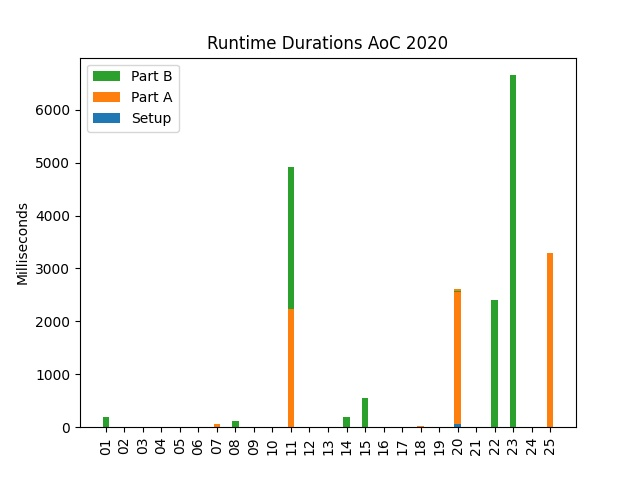
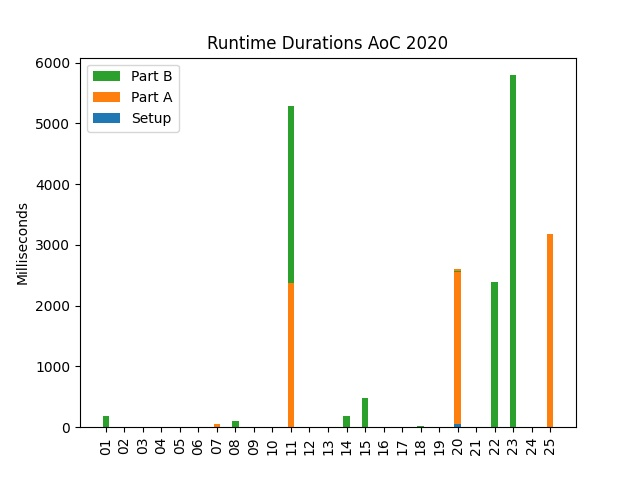
Added newline

diff --git a/run_all.py b/run_all.py
@@ -95,7 +95,7 @@ def run_all(year_to_run: int):
         for avg_day in averaged_time_values:
             log("Day " + avg_day[0] + ":" + "{:10.1f}".format(avg_day[1]) + 10 * " " + "{:10.1f}".format(
                 avg_day[2]) + 10 * " " + "{:10.1f}".format(avg_day[3]))
-        log("Total execution time: " + "{:10.1f}".format(total_time) + " ms on average (" + str(
+        log("\nTotal execution time: " + "{:10.1f}".format(total_time) + " ms on average (" + str(
             ITERATIONS[year_to_run]) + " iterations)")
         create_runtime_vis(averaged_time_values, year_to_run)
         create_readme()

diff --git a/aoc_2020/README.md b/aoc_2020/README.md
@@ -42,30 +42,31 @@ After this, insert runtime durations automatically
 ```bash 
 ---------------runtime duration (ms)---------------
              SETUP                 A                   B
-Day 01:       0.0                 5.0               185.0
+Day 01:       0.0                 2.0               181.0
 Day 02:       1.0                 1.0                 2.0
-Day 03:       1.0                 0.0                 0.0
-Day 04:       2.0                 0.0                 1.0
-Day 05:       1.0                 2.0                 2.0
-Day 06:       2.0                 1.0                 2.0
+Day 03:       0.0                 1.0                 0.0
+Day 04:       1.0                 0.0                 1.0
+Day 05:       1.0                 3.0                 2.0
+Day 06:       1.0                 1.0                 2.0
 Day 07:       4.0                50.0                 0.0
-Day 08:       0.0                 1.0               111.0
-Day 09:       1.0                 3.0                 5.0
-Day 10:       1.0                 0.0                 0.0
-Day 11:       2.0              2235.0              2674.0
-Day 12:       0.0                 1.0                 1.0
+Day 08:       0.0                 0.0               106.0
+Day 09:       0.0                 3.0                 5.0
+Day 10:       0.0                 0.0                 0.0
+Day 11:       0.0              2372.0              2916.0
+Day 12:       0.0                 0.0                 1.0
 Day 13:       0.0                 6.0                 0.0
-Day 14:       1.0                 3.0               185.0
-Day 15:       0.0                 1.0               545.0
-Day 16:       1.0                 0.0                 0.0
+Day 14:       1.0                 2.0               175.0
+Day 15:       0.0                 0.0               484.0
+Day 16:       0.0                 0.0                 0.0
 Day 17:       0.0                 0.0                 0.0
-Day 18:       1.0                15.0                14.0
+Day 18:       0.0                 6.0                10.0
 Day 19:       0.0                 0.0                 0.0
-Day 20:      58.0              2550.0                19.0
+Day 20:      48.0              2548.0                19.0
 Day 21:       0.0                 0.0                 0.0
-Day 22:       0.0                 0.0              2406.0
-Day 23:       0.0                 0.0              6651.6
+Day 22:       1.0                 0.0              2398.0
+Day 23:       1.0                 0.0              5794.0
 Day 24:       0.0                 0.0                 0.0
-Day 25:       0.0              3283.1                 0.0
-Total execution time:    21036.9 ms on average (1 iterations)
+Day 25:       0.0              3188.0                 0.0
+
+Total execution time:    20338.2 ms on average (1 iterations)
 ``` 
